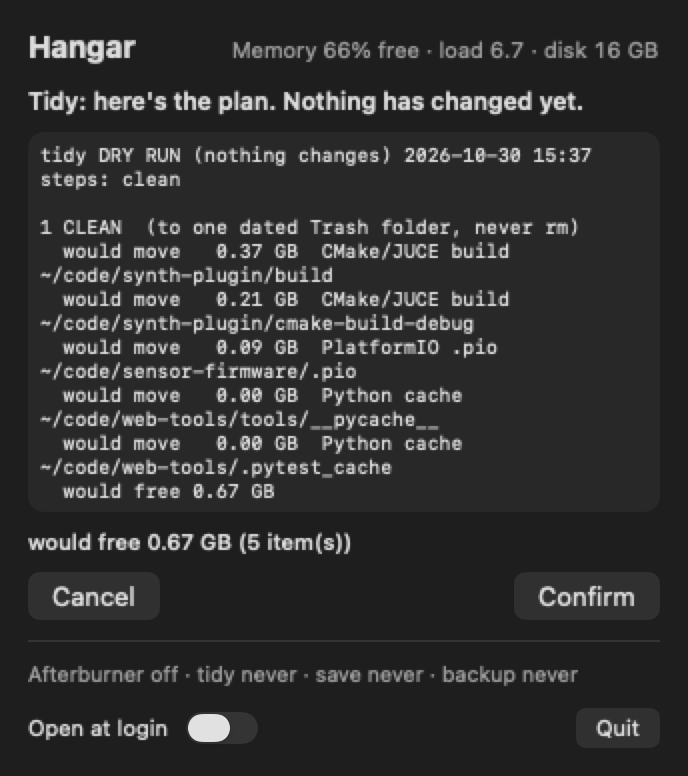
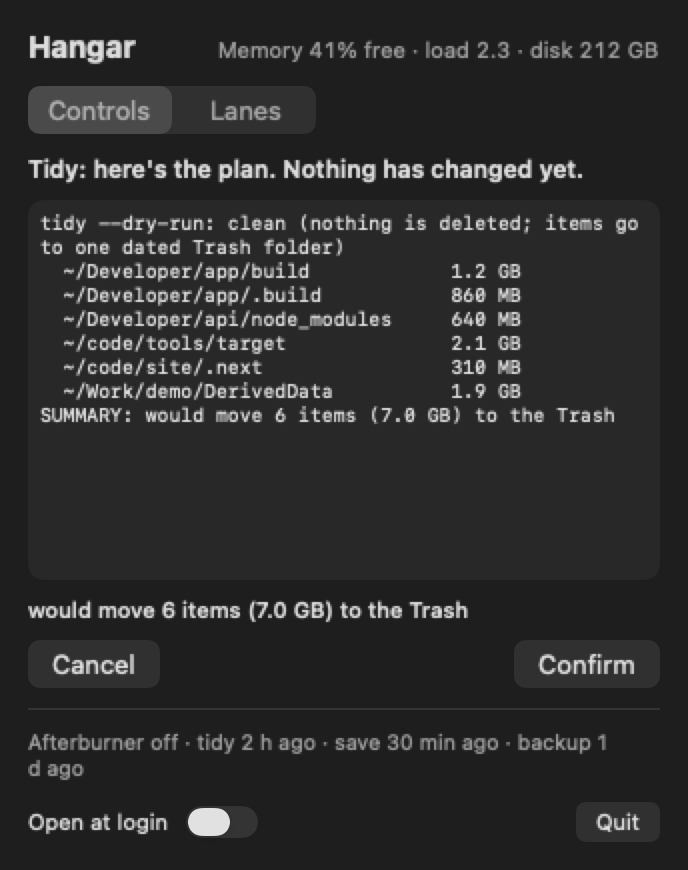
Hangar: Lanes tab (heavy + light lanes, queued tickets, recent log), drag to reorder (manual_order), Broken Arrow button
Controls / Lanes picker; Lanes refreshes every 5 s and shows running slots, queued and held tickets and the recent heavy_queue.log lines. Dragging a queued job writes memguard's manual_order (priority tickets stay first). The memguard dir comes from HANGAR_MEMGUARD_DIR, else MEMGUARD_HOME, else ~/.config/memguard. The all-three button is now Broken Arrow (red scope icon). Screenshots regenerated with a made-up queue.

diff --git a/hangar/Hangar.swift b/hangar/Hangar.swift
@@ -4,10 +4,11 @@ import ServiceManagement
 // Hangar: a menu-bar remote for memguard's own commands, with an F-22 button for afterburner. It runs these commands and shows their
 // result line, nothing else:
 //   afterburner on 2h / off  ·  tidy --only clean  ·  tidy --only save  ·  tidy --only backup  ·  tidy (all three)
-// Tidy, Backup and Everything first run `tidy --dry-run ...`, show that plan and wait for one Confirm. No network of its own, no admin
+// Tidy, Backup and Broken Arrow (all three) first run `tidy --dry-run ...`, show that plan and wait for one Confirm. No network of its own, no admin
 // rights. "Open at login" is OFF until you switch it on in the panel (SMAppService). Build: ./build.sh  Screenshots: HANGAR_SHOT=<dir>.
 // The commands default to ~/.local/bin/tidy and ~/.local/bin/afterburner (install.sh links them there); HANGAR_TIDY and
-// HANGAR_AFTERBURNER override the paths.
+// HANGAR_AFTERBURNER override the paths. The Lanes tab reads the memguard directory from HANGAR_MEMGUARD_DIR, else MEMGUARD_HOME,
+// else ~/.config/memguard.
 
 let HOMEDIR = NSHomeDirectory()
 let ENV = ProcessInfo.processInfo.environment
@@ -31,6 +32,76 @@ func summaryLine(_ out: String) -> String {
   return lines.last ?? "done"
 }
 
+// ---------------------------------------------------------------- lanes tab
+// Read-only view of memguard's queue: running slots (heavy.lock, heavy.slotN, light.lock, light.slot2: pid + label) and waiting tickets
+// (queue, queue_hold, queue_light, queue_light_hold: one file per job holding its label; "0-" prefix = priority), plus the last log lines.
+// The memguard directory: HANGAR_MEMGUARD_DIR, else MEMGUARD_HOME (what memguard itself uses), else ~/.config/memguard.
+let MGDIR = ENV["HANGAR_MEMGUARD_DIR"] ?? ENV["MEMGUARD_HOME"] ?? (HOMEDIR + "/.config/memguard")
+struct LaneJob: Identifiable { let id: String; let label: String; let secs: Int; let alive: Bool; let priority: Bool; let held: Bool; var ticket: String = "" }
+struct Lanes { var heavyRun = [LaneJob](), heavyQ = [LaneJob](), lightRun = [LaneJob](), lightQ = [LaneJob](), recent = [String](), paused = 0 }
+func readLanes() -> Lanes {
+  let fm = FileManager.default, now = Date()
+  func text(_ p: String) -> String { ((try? String(contentsOfFile: p, encoding: .utf8)) ?? "").trimmingCharacters(in: .whitespacesAndNewlines) }
+  func age(_ p: String) -> Int {
+    guard let d = (try? fm.attributesOfItem(atPath: p))?[.modificationDate] as? Date else { return 0 }
+    return max(0, Int(now.timeIntervalSince(d)))
+  }
+  let names = ((try? fm.contentsOfDirectory(atPath: MGDIR)) ?? []).sorted()
+  func slots(_ pfx: [String]) -> [LaneJob] {
+    names.filter { n in pfx.contains { n.hasPrefix($0) } }.compactMap { n in
+      let d = MGDIR + "/" + n; var isDir: ObjCBool = false
+      guard fm.fileExists(atPath: d, isDirectory: &isDir), isDir.boolValue else { return nil }
+      let pid = Int32(text(d + "/pid")) ?? 0
+      let lab = text(d + "/label")
+      return LaneJob(id: n, label: lab.isEmpty ? "(no label)" : lab, secs: age(d), alive: pid > 1 && kill(pid, 0) == 0, priority: false, held: false)
+    }
+  }
+  var manual = [String: Int]()
+  for (i, line) in readManualOrder().enumerated() { if manual[line] == nil { manual[line] = i } }
+  func queue(_ dirs: [String]) -> [LaneJob] {
+    dirs.flatMap { q -> [LaneJob] in
+      let d = MGDIR + "/" + q
+      return ((try? fm.contentsOfDirectory(atPath: d)) ?? []).map { f in
+        LaneJob(id: q + "/" + f, label: text(d + "/" + f), secs: age(d + "/" + f), alive: true, priority: f.hasPrefix("0-"), held: q.hasSuffix("_hold"), ticket: f)
+      }
+    }.sorted { a, b in
+      let ka = (a.priority ? 0 : 1, manual[a.ticket] ?? Int.max, a.ticket), kb = (b.priority ? 0 : 1, manual[b.ticket] ?? Int.max, b.ticket)
+      return ka < kb
+    }
+  }
+  var l = Lanes()
+  l.heavyRun = slots(["heavy.lock", "heavy.slot"]); l.lightRun = slots(["light.lock", "light.slot"])
+  l.heavyQ = queue(["queue", "queue_hold"]); l.lightQ = queue(["queue_light", "queue_light_hold"])
+  if let d = try? Data(contentsOf: URL(fileURLWithPath: MGDIR + "/paused.json")), let a = (try? JSONSerialization.jsonObject(with: d)) as? [Any] { l.paused = a.count }
+  if let h = FileHandle(forReadingAtPath: MGDIR + "/heavy_queue.log") {
+    let size = (try? h.seekToEnd()) ?? 0
+    try? h.seek(toOffset: size > 4096 ? size - 4096 : 0)
+    let tail = String(decoding: h.readDataToEndOfFile(), as: UTF8.self)
+    l.recent = Array(tail.split(separator: "\n").map { line -> String in
+      let t = String(line); let parts = t.split(separator: " ", maxSplits: 1)   // drop the date, keep "HH:MM:SS EVENT label"
+      return parts.count == 2 && parts[0].count == 10 ? String(parts[1]) : t
+    }.suffix(6).reversed())
+    try? h.close()
+  }
+  return l
+}
+// manual_order: memguard's dispatcher reads ticket names one per line (text after a TAB is only a label) and lets the listed tickets
+// swap among the places they already hold; priority ("0-" / priority_pattern) tickets never move. Hangar writes it when you drag a row.
+let MANUAL_ORDER = MGDIR + "/manual_order"
+func readManualOrder() -> [String] {
+  ((try? String(contentsOfFile: MANUAL_ORDER, encoding: .utf8)) ?? "").split(separator: "\n").compactMap { l in
+    let t = l.trimmingCharacters(in: .whitespaces)
+    return t.isEmpty || t.hasPrefix("#") ? nil : String(t.split(whereSeparator: { $0 == " " || $0 == "\t" }).first ?? "")
+  }
+}
+func writeManualOrder(heavy: [LaneJob], light: [LaneJob]) {
+  let rows = (heavy + light).filter { !$0.priority }.map { "\($0.ticket)\t\($0.label)" }
+  let body = "# Written by Hangar (Lanes tab, drag to reorder). One ticket name per line (text after a TAB is only the label). Read by memguard.py dispatch().\n" + rows.joined(separator: "\n") + "\n"
+  let tmp = MANUAL_ORDER + ".tmp"
+  if (try? body.write(toFile: tmp, atomically: false, encoding: .utf8)) != nil { _ = rename(tmp, MANUAL_ORDER) }
+}
+func dur(_ s: Int) -> String { s >= 3600 ? "\(s / 3600)h \(s % 3600 / 60)m" : s >= 60 ? "\(s / 60)m" : "\(s)s" }
+
 struct Status {
   var memFree: Int? = nil, load = 0.0, ab = false, abLeft = 0, drive: String? = nil, driveWhy = "", diskFree: Double? = nil
   var lastTidy: Double? = nil, lastSave: Double? = nil, lastBackup: Double? = nil, loaded = false
@@ -52,7 +123,7 @@ func parseStatus(_ s: String) -> Status? {
 
 enum Act { case afterburner, tidy, save, backup, all
   var title: String { switch self { case .afterburner: return "Afterburner"; case .tidy: return "Tidy"; case .save: return "Save + push"
-    case .backup: return "Backup"; case .all: return "Everything" } }
+    case .backup: return "Backup"; case .all: return "Broken Arrow" } }
   var tidyArgs: [String] { switch self { case .tidy: return ["--only", "clean"]; case .save: return ["--only", "save"]
     case .backup: return ["--only", "backup"]; default: return [] } }
 }
@@ -65,12 +136,21 @@ final class Model: ObservableObject {
   @Published var result = ""
   @Published var pending: Pending? = nil
   @Published var loginOn = SMAppService.mainApp.status == .enabled
+  @Published var tab = 0
+  @Published var lanes = Lanes()
+  func moveQueued(heavy: Bool, from: IndexSet, to: Int) {
+    if heavy { lanes.heavyQ.move(fromOffsets: from, toOffset: to) } else { lanes.lightQ.move(fromOffsets: from, toOffset: to) }
+    writeManualOrder(heavy: lanes.heavyQ, light: lanes.lightQ)
+    result = "Queue order saved; memguard uses it on its next pass (priority jobs stay first)."
+  }
+  func refreshLanes() { DispatchQueue.global(qos: .utility).async { let l = readLanes(); DispatchQueue.main.async { self.lanes = l } } }
 
   func refresh() {
     DispatchQueue.global(qos: .userInitiated).async {
       let (_, out) = runTool(TIDY, ["--status"])
       if let s = parseStatus(out) { DispatchQueue.main.async { self.st = s } }
     }
+    refreshLanes()
   }
   func tap(_ a: Act) {
     guard busy == nil else { return }
@@ -203,7 +283,8 @@ struct PanelView: View {
         Spacer()
         Text(statusLine).font(.system(size: 11)).monospacedDigit().foregroundStyle(.secondary)
       }
-      if let p = m.pending { confirm(p) } else { tiles }
+      Picker("", selection: $m.tab) { Text("Controls").tag(0); Text("Lanes").tag(1) }.pickerStyle(.segmented).labelsHidden()
+      if m.tab == 1 { lanesView } else if let p = m.pending { confirm(p) } else { tiles }
       if m.busy != nil {
         HStack(spacing: 8) { ProgressView().controlSize(.small); Text(m.busyNote).font(.system(size: 11)).foregroundStyle(.secondary) }
       }
@@ -222,6 +303,45 @@ struct PanelView: View {
     }
     .padding(14).frame(width: 344)
   }
+  func laneRow(_ j: LaneJob, running: Bool) -> some View {
+    HStack(alignment: .firstTextBaseline, spacing: 6) {
+      Circle().fill(running ? (j.alive ? Color.green : Color.red) : (j.held ? Color.gray : Color.orange)).frame(width: 7, height: 7)
+      Text((j.priority ? "★ " : "") + j.label).font(.system(size: 11)).lineLimit(2).truncationMode(.tail)
+      Spacer(minLength: 4)
+      Text(running ? (j.alive ? dur(j.secs) : "dead") : (j.held ? "held \(dur(j.secs))" : "waiting \(dur(j.secs))"))
+        .font(.system(size: 10)).monospacedDigit().foregroundStyle(.secondary)
+    }
+  }
+  func lane(_ title: String, _ run: [LaneJob], _ q: [LaneJob], heavy: Bool) -> some View {
+    VStack(alignment: .leading, spacing: 4) {
+      Text("\(title) · \(run.count) running · \(q.count) queued").font(.system(size: 11.5, weight: .semibold))
+      if run.isEmpty && q.isEmpty { Text("idle").font(.system(size: 11)).foregroundStyle(.secondary) }
+      ForEach(run) { laneRow($0, running: true) }
+      if !q.isEmpty {
+        List {
+          ForEach(q) { j in laneRow(j, running: false).moveDisabled(j.priority) }
+            .onMove { from, to in m.moveQueued(heavy: heavy, from: from, to: to) }
+        }
+        .listStyle(.plain).scrollContentBackground(.hidden).frame(height: min(CGFloat(q.count) * 24 + 4, 168))
+        Text("Drag queued jobs to change the order. ★ priority jobs stay first.").font(.system(size: 9.5)).foregroundStyle(.secondary)
+      }
+    }
+  }
+  var lanesView: some View {
+    VStack(alignment: .leading, spacing: 10) {
+      lane("Heavy lane", m.lanes.heavyRun, m.lanes.heavyQ, heavy: true)
+      lane("Light lane", m.lanes.lightRun, m.lanes.lightQ, heavy: false)
+      if m.lanes.paused > 0 { Text("\(m.lanes.paused) job(s) paused by memguard (memory)").font(.system(size: 10.5)).foregroundStyle(.orange) }
+      if !m.lanes.recent.isEmpty {
+        Text("Recent").font(.system(size: 11.5, weight: .semibold))
+        ForEach(Array(m.lanes.recent.enumerated()), id: \.offset) { _, line in
+          Text(line).font(.system(size: 9.5, design: .monospaced)).foregroundStyle(.secondary).lineLimit(1).truncationMode(.middle)
+        }
+      }
+    }
+    .frame(maxWidth: .infinity, alignment: .leading)
+    .onAppear { m.refreshLanes() }
+  }
   var tiles: some View {
     let idle = m.busy == nil
     return VStack(spacing: 8) {
@@ -239,16 +359,16 @@ struct PanelView: View {
       }
       Button(action: { m.tap(.all) }) {
         HStack(spacing: 10) {
-          Image(systemName: "sparkles").font(.system(size: 20, weight: .semibold)).foregroundStyle(.purple)
+          Image(systemName: "scope").font(.system(size: 20, weight: .semibold)).foregroundStyle(.red)   // every asset in at once
           VStack(alignment: .leading, spacing: 1) {
-            Text("Do all three").font(.system(size: 13, weight: .semibold))
+            Text("Broken Arrow").font(.system(size: 13, weight: .semibold))
             Text(m.st.drive == nil ? "tidy → save → backup (skipped: no drive)" : "tidy → save → backup").font(.system(size: 10.5)).foregroundStyle(.secondary)
           }
           Spacer()
         }
         .padding(.horizontal, 12).frame(maxWidth: .infinity, minHeight: 50)
-        .background(RoundedRectangle(cornerRadius: 12).fill(Color.purple.opacity(0.10)))
-        .overlay(RoundedRectangle(cornerRadius: 12).stroke(Color.purple.opacity(0.28)))
+        .background(RoundedRectangle(cornerRadius: 12).fill(Color.red.opacity(0.08)))
+        .overlay(RoundedRectangle(cornerRadius: 12).stroke(Color.red.opacity(0.28)))
         .contentShape(RoundedRectangle(cornerRadius: 12))
       }.buttonStyle(.plain).disabled(!idle).opacity(idle ? 1 : 0.45)
     }
@@ -326,7 +446,10 @@ final class AppDelegate: NSObject, NSApplicationDelegate, NSPopoverDelegate {
     NSApp.activate(ignoringOtherApps: true); w.makeKeyAndOrderFront(nil)
     timer?.invalidate()
     timer = Timer.scheduledTimer(withTimeInterval: 15, repeats: true) { _ in self.model.refresh(); self.updateIcon() }
+    lanesTimer?.invalidate()
+    lanesTimer = Timer.scheduledTimer(withTimeInterval: 5, repeats: true) { _ in if self.win?.isVisible == true { self.model.refreshLanes() } }
   }
+  var lanesTimer: Timer?
   // Opening the app again (Finder/Spotlight) shows the panel centered, in case the menu bar plane is hidden behind the notch.
   var win: NSWindow?
   func applicationShouldHandleReopen(_ s: NSApplication, hasVisibleWindows: Bool) -> Bool { showWindow(nil); return false }
@@ -352,7 +475,8 @@ enum Shots {
     let conf = Model(); conf.st = live.st
     let (_, plan) = runTool(TIDY, ["--dry-run", "--only", "clean"])
     conf.pending = Pending(act: .tidy, plan: plan.trimmingCharacters(in: .whitespacesAndNewlines), summary: summaryLine(plan))
-    let cases: [(String, Model)] = [("panel", live), ("afterburner_on", ab), ("confirm_tidy", conf)]
+    let ln = Model(); ln.st = live.st; ln.tab = 1; ln.lanes = readLanes()
+    let cases: [(String, Model)] = [("panel", live), ("afterburner_on", ab), ("confirm_tidy", conf), ("lanes", ln)]
     var jobs = [(Model, String, String)]()
     for (n, mdl) in cases { for ap in ["light", "dark"] { jobs.append((mdl, ap, "\(dir)/hangar_\(n)_\(ap).png")) } }
     func step(_ i: Int) {

diff --git a/README.md b/README.md
@@ -194,14 +194,21 @@ Start with `tidy --dry-run` after you fill in the `tidy` block; with the default
 <img src="hangar/shots/hangar_afterburner_on_dark.png" width="300" alt="Hangar with afterburner on, dark mode">
 </p>
 
-Hangar is a small SwiftUI menu-bar app: click the plane and a panel opens with an F-22 button for afterburner, a broom for Tidy, Save + push, Backup and "Do all three". It only runs `afterburner` and `tidy` and shows their result line. Tidy, Backup and "Do all three" first show the `--dry-run` plan and wait for one Confirm. The plane in the menu bar shows the time left while afterburner is on.
+Hangar is a small SwiftUI menu-bar app: click the plane and a panel opens with an F-22 button for afterburner, a broom for Tidy, Save + push, Backup and a red Broken Arrow button that does all three. The Controls buttons only run `afterburner` and `tidy` and show their result line. Tidy, Backup and Broken Arrow first show the `--dry-run` plan and wait for one Confirm. The plane in the menu bar shows the time left while afterburner is on.
+
+A segmented Controls / Lanes picker at the top switches to the **Lanes** tab: the heavy and light lanes with their running slots (pid check, run time), the queued and held tickets (priority jobs marked with a star) and the last few `heavy_queue.log` lines, refreshed every 5 seconds while the panel is open. **Drag a queued job** to reorder it: Hangar writes memguard's `manual_order` file (ticket names, one per line), memguard uses it on its next pass, and priority tickets always stay first. The Lanes tab reads the memguard directory from `HANGAR_MEMGUARD_DIR`, else `MEMGUARD_HOME`, else `~/.config/memguard`.
+
+<p>
+<img src="hangar/shots/hangar_lanes_light.png" width="300" alt="Hangar Lanes tab, light mode">
+<img src="hangar/shots/hangar_lanes_dark.png" width="300" alt="Hangar Lanes tab, dark mode">
+</p>
 
 ```bash
 hangar/build.sh                 # builds and installs ~/Applications/Hangar.app (an old copy goes to the Trash)
 hangar/build.sh --no-install    # build only, into hangar/build (or HANGAR_OUT=<dir>)
 ```
 
-Needs macOS 13+ and the Xcode command line tools (`swiftc`); no Xcode project. The app is ad-hoc signed, has no network access of its own and needs no admin rights. Clicking the plane opens the panel as a small window kept inside the visible screen area, and opening the app again (Finder or Spotlight) shows it centered, which helps when the menu bar icon is hidden behind the notch. "Open at login" is off until you switch it on in the panel. `HANGAR_TIDY` and `HANGAR_AFTERBURNER` override where it finds the commands (default `~/.local/bin`). `HANGAR_SHOT=<dir>` renders the screenshots in `hangar/shots/` offscreen, without a menu-bar item; the ones here were taken with a sample config.
+Needs macOS 13+ and the Xcode command line tools (`swiftc`); no Xcode project. The app is ad-hoc signed, has no network access of its own and needs no admin rights. Clicking the plane opens the panel as a small window kept inside the visible screen area, and opening the app again (Finder or Spotlight) shows it centered, which helps when the menu bar icon is hidden behind the notch. "Open at login" is off until you switch it on in the panel. `HANGAR_TIDY` and `HANGAR_AFTERBURNER` override where it finds the commands (default `~/.local/bin`). `HANGAR_SHOT=<dir>` renders the screenshots in `hangar/shots/` offscreen, without a menu-bar item; the ones here were taken with a sample config and a made-up queue (`HANGAR_MEMGUARD_DIR` pointed at a scratch folder).
 
 ### Tuning for your Mac
 

diff --git a/CHANGELOG.md b/CHANGELOG.md
@@ -6,7 +6,9 @@
 - `heavyrun` reads the caps from `afterburner.py caps` every poll (fails safe to normal), uses `heavy.slot4` and up in afterburner, cleans stale slots left from an afterburner run, and logs the nice level. `timing_probe.py` counts jobs in every slot.
 - Graceful stop: a kill (critical memory or the stuck rule) now sends SIGTERM and waits up to `stop_grace_seconds` (30; `MEMGUARD_STOP_GRACE` overrides) for the job to save and exit before SIGKILL; 3 s when memory was already under `kill_avail_gb`, cut short under `stop_hard_avail_gb` (1.5). The log says `saved` or `forced`.
 - Tidy: new `tidy.py` and the `tidy` command: clean regenerable build output under the configured roots to one dated Trash folder with a manifest (never `rm`), push unpushed branches fast-forward only with a secrets check, back up verified git bundles plus an rsync of your folders to an attached drive as one light-lane `heavyrun` job, then one summary line. Everything it may touch comes from the new `tidy` block in `config.json`; the defaults push nothing and back up nothing.
-- Hangar: new optional SwiftUI menu-bar app in `hangar/` (an F-22 button for afterburner, Tidy, Save + push, Backup, Do all three) with `build.sh` and screenshots. Clicking the plane opens a window kept inside the visible screen area; opening the app again shows it centered. Tidy and Backup show the dry-run plan and wait for Confirm.
+- Hangar: new optional SwiftUI menu-bar app in `hangar/` (an F-22 button for afterburner, Tidy, Save + push, Backup, Broken Arrow = all three) with `build.sh` and screenshots. Clicking the plane opens a window kept inside the visible screen area; opening the app again shows it centered. Tidy and Backup show the dry-run plan and wait for Confirm.
+- Hangar Lanes tab: a Controls / Lanes picker. Lanes shows the heavy and light lanes (running slots with pid check and run time, queued and held tickets, priority tickets starred), the paused-job count and the recent `heavy_queue.log` lines, refreshed every 5 s. Drag queued jobs to reorder them: Hangar writes memguard's `manual_order` file (priority tickets stay first). The memguard directory comes from `HANGAR_MEMGUARD_DIR`, else `MEMGUARD_HOME`, else `~/.config/memguard`. New Lanes screenshots (made-up queue).
+- Hangar: the "Do all three" button is now **Broken Arrow**, with a red scope icon and red tint. Screenshots regenerated.
 - `install.sh` installs and links `afterburner` and `tidy`; `memguard.py --status` shows the afterburner state; `RULES.md` rules 13 (afterburner) and 14 (tidy).
 - Tests: 165 (34 new: afterburner, graceful stop, tidy on a scratch home, scratch volumes and a scratch Trash).
 
